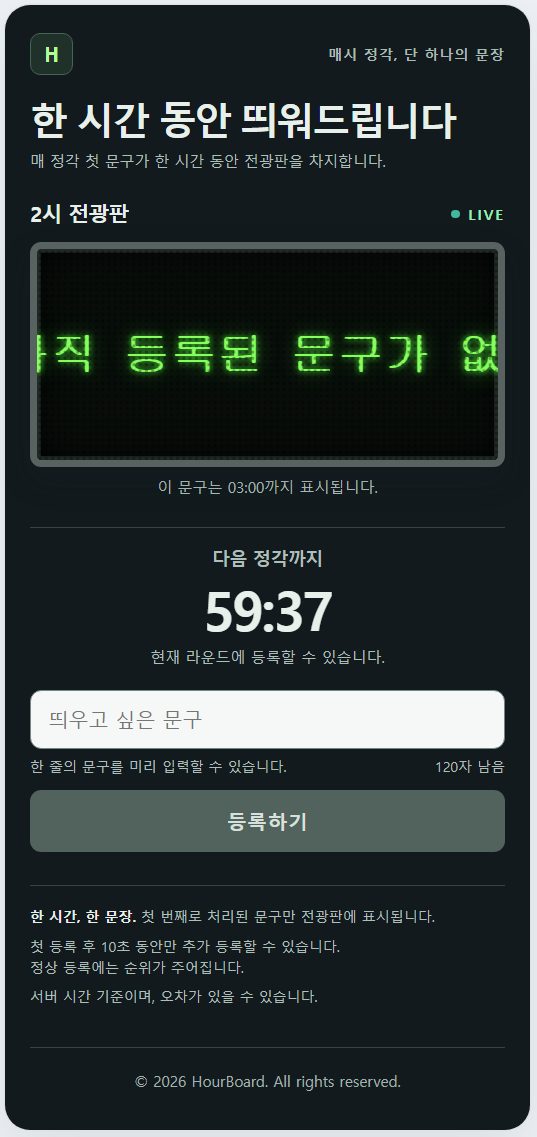
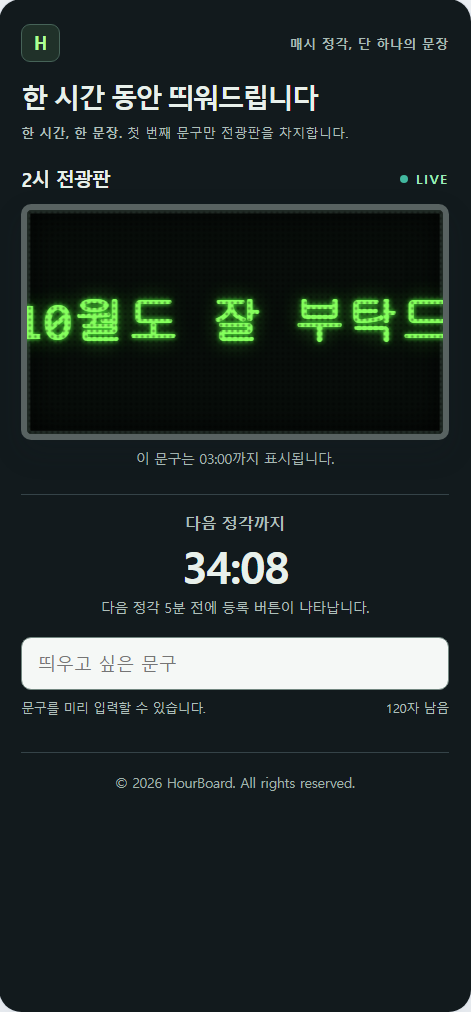
docs : 문서 정리

Changed region(s): [[0.0, 0.0, 1.0, 1.0]]

diff --git a/README.md b/README.md
@@ -1,6 +1,7 @@
 # HourBoard
 
-> **한 시간 동안 띄워드립니다**
+### [**한 시간 동안 띄워드립니다**](https://hourboard.duckdns.org/)
+
 >
 > 매 정각 가장 먼저 등록된 한 문구를 한 시간 동안 노출하고, 첫 등록 후 10초 안의 참가자에게 서버 처리 기준 순위를 반환하는 선착순 동시성 실험 서비스
 
@@ -253,8 +254,6 @@ hourboard.duckdns.org
 → Fastify
 → PostgreSQL
 ```
-
-[운영 사이트 열기](https://hourboard.duckdns.org/)
 
 미니PC에서 운영 Compose를 기동했고, 외부 LTE/5G에서 HTTPS 화면과 API 접속을 확인했다. Windows 재부팅 후에도 컨테이너와 외부 HTTPS가 복구되고 이전 Winner·attemptCount가 유지됐다. 외부 동시 등록 E2E와 latency 측정은 진행 전이다.
 
